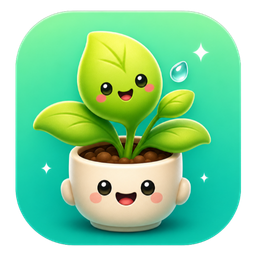
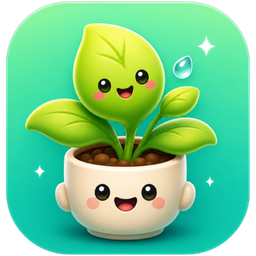
chore: update app assets and improve UI consistency
- Enhanced app visuals by updating app-icon.png for better branding alignment.
- Reformatted locales in app-store-screenshots.json for improved readability.

diff --git a/apps/web/src/components/header.tsx b/apps/web/src/components/header.tsx
@@ -35,9 +35,7 @@ export default function Header() {
           className="flex items-center gap-2 no-underline outline-none focus-visible:ring-2 focus-visible:ring-ring focus-visible:ring-offset-2 focus-visible:ring-offset-paper"
           aria-label={`${SITE.name} home`}
         >
-          <span className="grid size-8 place-items-center rounded-xl bg-brand text-primary-foreground">
-            <LeafMark className="size-5" />
-          </span>
+          <img src="/icon.png" alt="LeafCue" width={32} height={32} />
           <span className="font-display font-semibold text-foreground text-xl tracking-tight">
             {SITE.name}
           </span>
